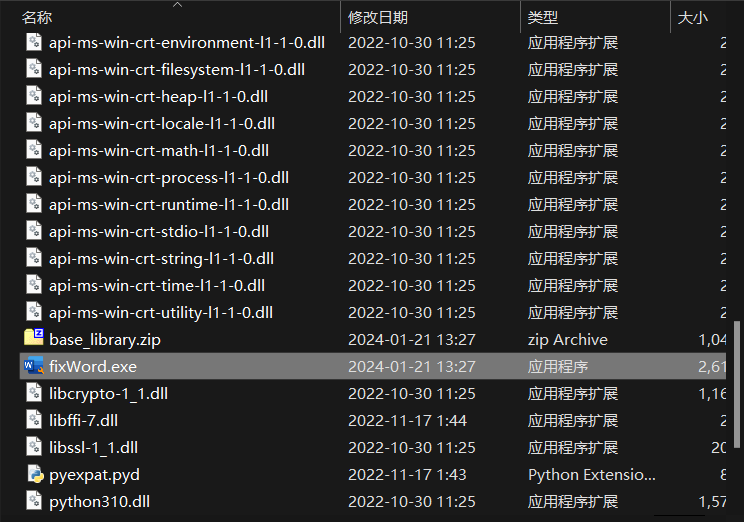
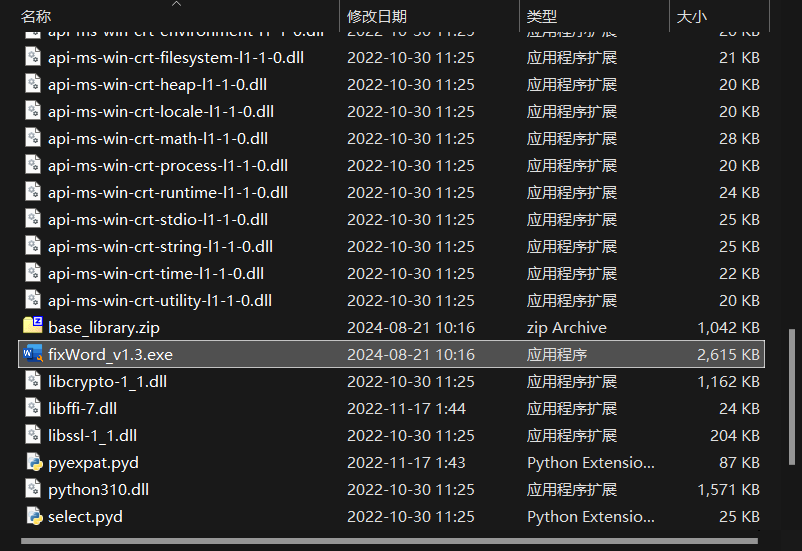
108211028 update README.md,fix_word_v10.3

diff --git a/fix_word_v10.3.py b/fix_word_v10.3.py
@@ -10,8 +10,8 @@ from time import localtime, strftime, sleep
 """
 开发作者：晨小明
 开发日期：2024/01/04
-开发版本：v1.2__release
-修改日期：2024/03/11
+开发版本：v1.3__release
+修改日期：2024/08/20
 主要功能：一、支持单文件处理或批量文档处理，输入文件路径或文件夹路径，自动判断。
          二、读取.docx文件并设置格式：
             1.页边距：上3.7cm，下3.5cm，左2.8cm，右2.6cm
@@ -35,17 +35,19 @@ from time import localtime, strftime, sleep
                 数字后有顿号替换为点，如："1、" --> "1."
          四、输出文件名称含时间点，方便标记（可选）
          （注，本程序无法处理图片格式，如果图片独立成段，本程序所用API识别到图片会被默认是空段落，为了防止图片删除，只能放弃处理空段落及图片格式）
-更新日志：【修复】解决了批量处理时选项需要重复输入的问题
+更新日志：
+【优化】解决了首行缩进2字符的问题
+【优化】设置基础信息常量，如页边距、行距、字体、字号等，方便后续修改
 """
 
 
 def margin(docx):
     """ 设置页边距 """
     for s in docx.sections:
-        s.top_margin = Cm(3.7)
-        s.bottom_margin = Cm(3.5)
-        s.left_margin = Cm(2.8)
-        s.right_margin = Cm(2.6)
+        s.top_margin = Cm(PAGETOPMARGIN)
+        s.bottom_margin = Cm(PAGEBOTTOMMARGIN)
+        s.left_margin = Cm(PAGELEFTMARGIN)
+        s.right_margin = Cm(PAGERIGHTMARGIN)
 
 
 def footer(docx):
@@ -54,9 +56,9 @@ def footer(docx):
     def AddFooterNumber(p):
         t1 = p.add_run("— ")
         font = t1.font
-        font.name = '宋体'
-        font.size = Pt(14)  # 14号字体
-        t1._element.rPr.rFonts.set(qn("w:eastAsia"), "宋体")
+        font.name = PAGENUMBERFONT
+        font.size = Pt(PAGENUMBERFONTSIZE)  # 14号字体
+        t1._element.rPr.rFonts.set(qn("w:eastAsia"), PAGENUMBERFONT)
 
         run1 = p.add_run('')
         fldChar1 = OxmlElement('w:fldChar')  # creates a new element
@@ -68,9 +70,9 @@ def footer(docx):
         instrText.set(qn('xml:space'), 'preserve')  # sets attribute on element
         instrText.text = 'PAGE'
         font = run2.font
-        font.name = '宋体'
-        font.size = Pt(14)  # 14号字体
-        run2._element.rPr.rFonts.set(qn("w:eastAsia"), '宋体')
+        font.name = PAGENUMBERFONT
+        font.size = Pt(PAGENUMBERFONTSIZE)  # 14号字体
+        run2._element.rPr.rFonts.set(qn("w:eastAsia"), PAGENUMBERFONT)
         run2._element.append(instrText)
 
         run3 = p.add_run('')
@@ -80,9 +82,9 @@ def footer(docx):
 
         t2 = p.add_run(" —")
         font = t2.font
-        font.name = '宋体'
-        font.size = Pt(14)  # 14号字体
-        t2._element.rPr.rFonts.set(qn("w:eastAsia"), '宋体')
+        font.name = PAGENUMBERFONT
+        font.size = Pt(PAGENUMBERFONTSIZE)  # 14号字体
+        t2._element.rPr.rFonts.set(qn("w:eastAsia"), PAGENUMBERFONT)
 
     for s in docx.sections:
         # print(s.footer)
@@ -102,21 +104,21 @@ def paragraphFun(is_title, p):
     """ 段落函数 """
     if is_title == "title":
         p.alignment = WD_ALIGN_PARAGRAPH.CENTER
-        p.paragraph_format.line_spacing = Pt(33)  # 行距
+        p.paragraph_format.line_spacing = Pt(TITLEMARGIN)  # 行距
         p.paragraph_format.first_line_indent = None
         p.paragraph_format.before_spacing = Pt(0)
         p.paragraph_format.after_spacing = Pt(0)
     elif is_title == "odd_footer":
         p.alignment = WD_PARAGRAPH_ALIGNMENT.RIGHT
         p.paragraph_format.right_indent = Pt(14)
-        p.paragraph_format.line_spacing = Pt(28)
+        p.paragraph_format.line_spacing = Pt(TEXTMARGIN)
     elif is_title == "even_footer":
         p.alignment = WD_PARAGRAPH_ALIGNMENT.LEFT
         p.paragraph_format.left_indent = Pt(14)
-        p.paragraph_format.line_spacing = Pt(28)
+        p.paragraph_format.line_spacing = Pt(TEXTMARGIN)
     else:
         p.alignment = WD_ALIGN_PARAGRAPH.JUSTIFY
-        p.paragraph_format.line_spacing = Pt(28)  # 行距
+        p.paragraph_format.line_spacing = Pt(TEXTMARGIN)  # 行距
         p.paragraph_format.before_spacing = Pt(0)
         p.paragraph_format.after_spacing = Pt(0)
 
@@ -164,42 +166,42 @@ def text(is_title, is_level1, is_level2, is_digit, p, i):
     if is_title == "title":
         if is_digit == "num_or_let":
             new_run = p.add_run(i)
-            new_run.font.name = 'Times New Roman'
-            new_run.font.size = Pt(18)
+            new_run.font.name = NUMBERFONT
+            new_run.font.size = Pt(TITLEFONTSIZE)
             new_run.font.bold = False
         else:
             run_title = p.add_run(i)
-            run_title.font.name = '方正小标宋简体'
+            run_title.font.name = TITLEFONT
             run_title._element.rPr.rFonts.set(
-                qn('w:eastAsia'), '方正小标宋简体')
-            run_title.font.size = Pt(18)
+                qn('w:eastAsia'), TITLEFONT)
+            run_title.font.size = Pt(TITLEFONTSIZE)
             run_title.font.bold = False
     else:
         if is_digit == "num_or_let":
             new_run = p.add_run(i)
-            new_run.font.name = 'Times New Roman'
-            new_run.font.size = Pt(14)
+            new_run.font.name = NUMBERFONT
+            new_run.font.size = Pt(TITLEFONTSIZE)
             new_run.font.bold = False
         elif is_level1 == "level1":
             run_level1 = p.add_run(i)
-            run_level1.font.name = '黑体'
+            run_level1.font.name = LEVEL1FONT
             run_level1._element.rPr.rFonts.set(
-                qn('w:eastAsia'), '黑体')
-            run_level1.font.size = Pt(14)
+                qn('w:eastAsia'), LEVEL1FONT)
+            run_level1.font.size = Pt(TEXTFONTSIZE)
             run_level1.font.bold = False
         elif is_level2 == "level2":
             run_level2 = p.add_run(i)
-            run_level2.font.name = '楷体_GB2312'
+            run_level2.font.name = LEVEL2FONT
             run_level2._element.rPr.rFonts.set(
-                qn('w:eastAsia'), '楷体_GB2312')
-            run_level2.font.size = Pt(14)
+                qn('w:eastAsia'), LEVEL2FONT)
+            run_level2.font.size = Pt(TEXTFONTSIZE)
             run_level2.font.bold = False
         else:
             run_content = p.add_run(i)
-            run_content.font.name = '仿宋_GB2312'
+            run_content.font.name = TEXTFONT
             run_content._element.rPr.rFonts.set(
-                qn('w:eastAsia'), '仿宋_GB2312')
-            run_content.font.size = Pt(14)
+                qn('w:eastAsia'), TEXTFONT)
+            run_content.font.size = Pt(TEXTFONTSIZE)
             run_content.font.bold = False
 
 
@@ -257,7 +259,8 @@ def fixDocx(docx):
                     # print(run_content.text)
                     string = run_content.text
                     # print(string)
-                    p.paragraph_format.first_line_indent = Pt(28)  # 首行缩进
+                    p.paragraph_format.first_line_indent = 0  # 首行缩进
+                    p.paragraph_format.element.pPr.ind.set(qn("w:firstLineChars"), '200')
                     run_content._element.getparent().remove(run_content._element)
                     # 替换格式："1、" --> "1."
                     for i in range(len(string)):
@@ -351,7 +354,6 @@ def fixWord(docx_path, save_path, file, output_path, time_ipt, page_ipt, img_ipt
 
     print(f"··>提示<·· 已保存：{save_path}")
     docx.save(save_path)
-    
 
 
 def inputPath():
@@ -423,6 +425,27 @@ def main():
 
 
 if __name__ == '__main__':
+    # 配置信息start
+    # 页边距
+    PAGETOPMARGIN = 3.7  # 页边距：上3.7cm
+    PAGEBOTTOMMARGIN = 3.5  # 页边距：下3.5cm
+    PAGELEFTMARGIN = 2.8  # 页边距：左2.8cm
+    PAGERIGHTMARGIN = 2.6  # 页边距：右2.6cm
+    # 标题
+    TITLEFONT = '方正小标宋简体'  # 标题：方正小标宋简体
+    TITLEFONTSIZE = 18  # 标题：小二号
+    TITLEMARGIN = 33  # 标题：固定值33磅
+    # 正文
+    TEXTFONT = '仿宋_GB2312'  # 正文：仿宋_GB2312
+    TEXTFONTSIZE = 14  # 正文：四号
+    TEXTMARGIN = 28  # 正文：一般固定值28磅
+    LEVEL1FONT = '黑体'  # 一级标题：黑体
+    LEVEL2FONT = '楷体_GB2312'  # 二级标题：楷体_GB2312
+    NUMBERFONT = 'Times New Roman'  # 数字&英文：TimesNewRoman字体
+    # 页码
+    PAGENUMBERFONTSIZE = 14  # 页码：四号
+    PAGENUMBERFONT = '宋体'  # 页码：宋体
+    # 配置信息end
     main()
     print("··>提示<·· 处理完成！")
     sleep(0.8)

diff --git a/README.md b/README.md
@@ -17,16 +17,16 @@ fixWord是一个基于python开发的Word文档修复工具，能够自动修复
 | ---- | ---- | ---- | ---- |
 | Windows10及以上版本 | 至少2GB | 至少25MB | / |
 ## 使用说明
-1. [下载地址1（推荐）](https://gitee.com/cxmStudio/fixWord/releases/download/v1.2/fixWord_v1.2.zip) [下载地址2](https://github.com/Sam-CXM/fixWord/releases/download/v1.2/fixWord_v1.2.zip)
+1. [下载地址1（推荐）](https://gitee.com/cxmStudio/fixWord/releases/download/v1.3/fixWord_v1.3.zip) [下载地址2](https://github.com/Sam-CXM/fixWord/releases/download/v1.3/fixWord_v1.3.zip)
 2. 将安装包解压到本地。
-3. 运行 `fixWord_v1.2.exe` 文件，输入要修复的Word**文档路径**或含有文档的**文件夹路径**。
+3. 运行 `fixWord_v1.3.exe` 文件，输入要修复的Word**文档路径**或含有文档的**文件夹路径**。
 4. 功能选择（输入 `Y` 或 `y` 确定）。
 5. 按回车键等待修复完成。
 ## 功能说明
 - **开发作者**：晨小明
 - **开发日期**：2024/01/04
-- **开发版本**：v1.2_release
-- **修改日期**：2024/03/11
+- **开发版本**：v1.3_release
+- **修改日期**：2024/08/20
 - **主要功能**：
     - 一、支持**单文件处理**或**批量文档处理**，输入文件路径或文件夹路径，自动判断。
     - 二、**读取.docx文件并设置格式**
@@ -63,6 +63,9 @@ fixWord是一个基于python开发的Word文档修复工具，能够自动修复
             数字后有顿号替换为点，如："1、" --> "1."
     - 四、输出文件名称含时间点，方便标记（可选）
 ## 更新日志：
+  - 维护日期：**2024.8.21**
+    - 【**优化**】解决了首行缩进 2 字符的问题；
+    - 【**优化**】设置基础信息常量。
   - 维护日期：**2024.3.12**
     - 【**修复**】解决了批量处理时选项需要重复输入的问题。
   - 维护日期：**2024.1.22**
